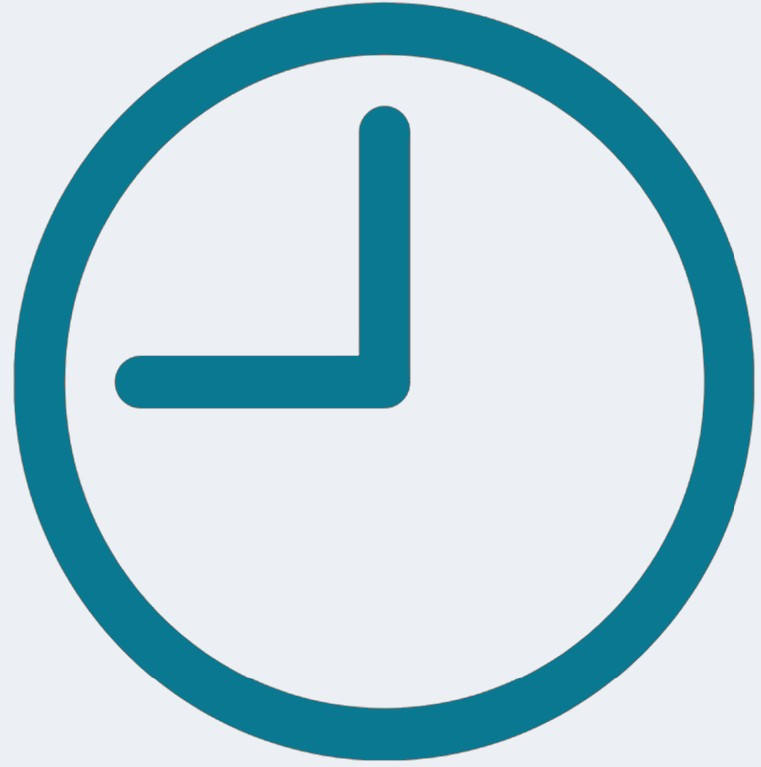
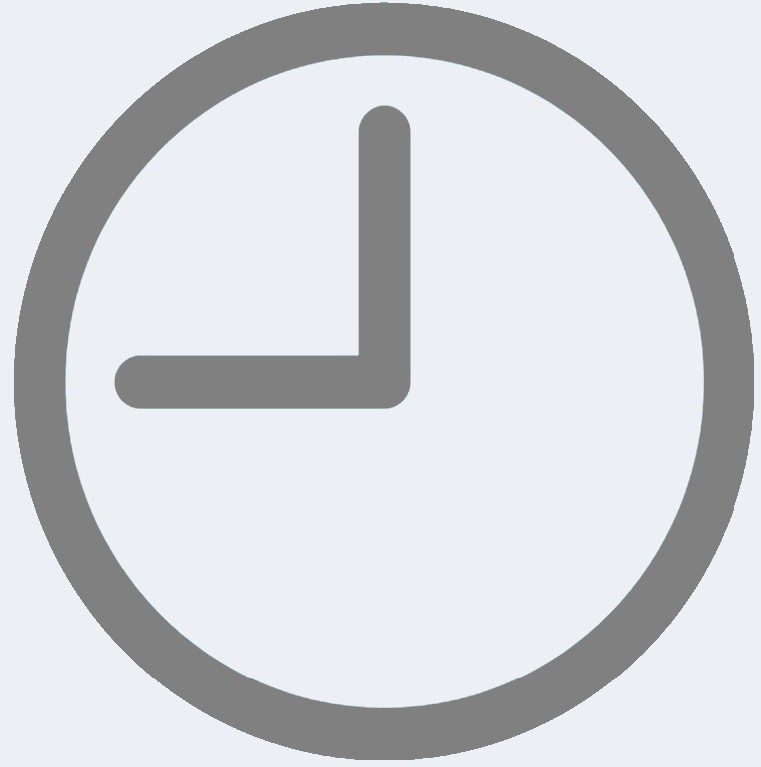
changement des images + design du detail de l'offre
En attente du compteur de visite.

Changed region(s): [[0.0, 0.0, 0.9974, 1.0], [0.1511, 0.1199, 0.544, 0.5398]]

diff --git a/front/myApp/www/templates/internOffer.html b/front/myApp/www/templates/internOffer.html
@@ -2,26 +2,44 @@
     <ion-content>
         <table class="tableOffer">
             <tr>
-                <td class="offerTitle">
+                <td colspan="2" class="offerTitle">
                     {{offer.label}}
-                </td>
-                <td class="logoCompany">
-                    <img src="/img/{{offer.currentApply.stateLabel}}.png" height="48" width="48" style="vertical-align: middle;"/>
                 </td>
             </tr>
             <tr>
-                <td class="description">
+                <td class="stateOffer">
+                    <img src="/img/{{offer.currentApply.stateLabel}}.png" height="48" width="48" style="vertical-align: middle;"/>
+                </td>
+                <td>
+                    <div class="apply">
+                        <button class="buttonApply" ng-click="addToCart()" type="submit">Ajouter</button>
+                    </div>
+                </td>
+            </tr>
+            <tr>    
+                <td>
+                    <div class="informations">
+                        <div class="uniqueInformation"><img src="/img/earning_offer.jpg" height="20" width="20"/>     <strong>{{offer.earning}}</strong></div>
+                        <div class="uniqueInformation"><img src="/img/arobase_offer.jpg" height="20" width="20"/>     {{offer.referent.name}}</div>                       
+                    </div>
+                </td>
+                <td>
+                    <div  class="informations">
+                        <div class="uniqueInformation"><img src="/img/location_offer.jpg" height="20" width="20"/>     {{offer.location}}</div>
+                        <div class="uniqueInformation"><img src="/img/clock_offer.jpg" height="20" width="20"/>     {{offer.duration}}</div>                        
+                    </div>
+                </td>
+            </tr>
+            <tr>
+                <td colspan="2" class="description">
                     {{offer.description}}
                 </td>
-                <td class="applyinformations">
-                    <div class="apply">
-                        <button class="buttonApply" ng-click="addToCart()" type="submit">Postuler</button>
-                    </div>
-                    <div class="informations">
-                        <img src="/img/earning_offer.jpg" height="11" width="11"/>     <strong>{{offer.earning}}</strong><br />
-                        <img src="/img/arobase_offer.jpg" height="11" width="11"/>     {{offer.referent.name}} <br />
-                        <img src="/img/location_offer.jpg" height="11" width="11"/>     {{offer.location}} <br />
-                        <img src="/img/clock_offer.jpg" height="11" width="11"/>     {{offer.duration}} <br />
+            </tr>
+            <tr>
+                <td colspan="2" class="counter">
+                    <div  class="informations">
+                        <img src="/img/counter.png" height="25" width="25" style="vertical-align: middle;"/>
+                        42 personnes consultent cette offre.
                     </div>
                 </td>
             </tr>

diff --git a/front/myApp/www/js/controller/internOfferController.js b/front/myApp/www/js/controller/internOfferController.js
@@ -1,15 +1,15 @@
 angular.module('app.controllers')
-.controller('InternOfferController', function($scope, $stateParams, $rootScope) {
+.controller('InternOfferController', function($http, $scope, $stateParams, $rootScope) {
     if (!$stateParams.offerId) throw new Error("No id passed to InternOfferController");
     // Récupération de l'id de l'offre en cours
     $scope.offerId = $stateParams.offerId;
     
-    // Déclaration de l'offre
+    // Mock for the offer
     $scope.offer = { 
         id: 1, 
-        label: 'Développeur',
+        label: 'Analyste programmeur junior',
         earning: '10K€',
-        description: 'description test 1',
+        description: 'Lorem ipsum dolor sit amet, consectetur adipiscing elit. Etiam dignissim dui ac metus suscipit, in commodo ligula tincidunt.\n\n Suspendisse rutrum molestie est, non tempor ligula interdum eu. Curabitur vulputate enim tellus, ut dapibus eros viverra sed. Vivamus consectetur, sem sed maximus placerat, nunc neque tincidunt erat,\n\n id volutpat tellus urna a nibh. Sed ac volutpat sem. Sed ac mi justo. Maecenas in dapibus quam. Integer scelerisque pulvinar leo, et luctus ligula ultrices vel. Vestibulum ultricies tempor pretium. Vestibulum lobortis sapien eget libero pellentesque efficitur. In efficitur vulputate lorem, sit amet semper purus vulputate non. Quisque convallis nisl sit amet sodales placerat.',
         location: 'Nulle part',
         duration: '1 jour',
         referent: {
@@ -30,22 +30,25 @@ angular.module('app.controllers')
         ]
     };
     
-    // Déclaration de l'offre
-    //TODO - Récupérer les attributs de l'offre en base à partir de l'offre de l'id
-    /*
-    $scope.offer = { 
-        id: $scope.offerId,
-        label: $scope.label,
-        description: $scope.description,
-        earning: $scope.earning,
-        referent: $scope.mail,
-        location: $scope.location,
-        duration: $scope.duration
-    };
-     */
+    // Get detailed information of the internship offer
+    /*$http({
+        method: 'GET',
+        url: $rootScope.serverURL+'/internoffer/'+$scope.offerId,
+        headers: {'Content-Type': 'application/json'}
+    }).then(
+        function(response){
+            if(response.data !== null){
+                //declar the offer
+                $scope.offer = response.data;
+            }
+        }, 
+        function(response){
+            console.log(response);
+        }
+    );
     
     // Add current offer to user's cart
     $scope.addToCart = function () {
         $rootScope.cartOffers.push($scope.offer);
-    };
+    };*/
 });

diff --git a/front/myApp/www/css/internOffer.css b/front/myApp/www/css/internOffer.css
@@ -11,39 +11,59 @@
     width: 100%;
 }
 
+.tableOffer tr {
+    width: 100%;
+}
+
 .tableOffer tr td {
-    padding: 5px;
+    padding: 8px 8px 8px 8px;
+    width: 50%;
 }
 /** Style du titre de l'offre **/
 .offerTitle {
-    font-size: 20px;
+    font-size: 25px;
     font-weight: bold;
     border: 0px !important;
+    margin-bottom: 10px;
+    margin-top: 10px;
 }
 
 /** Style de la div de description de l'offre' **/
 .description {
     text-align: justify ;
-    font-size: 13px;
+    font-size: 18px;
+    overflow: hidden;
+    word-wrap: break-word;
 }
 
-.applyinformations {
-    width: 125px;
-}
-.apply {
-    
-}
 .informations {
-    font-size: 13px;
-    padding-left: 3px;
-    border-left: 1px #0B7892 solid;
+    margin-top: 20px;
+    padding-left: 8px;
+    border-left: 3px #0B7892 solid;
+}
+.uniqueInformation {
+    font-size: 20px;
+}
+
+.uniqueInformation{
+    margin-bottom: 20px;
+}
+
+.counter {
+    font-size: 20px;
 }
 
 /**  **/
-.logoCompany{
+.stateOffer {
+    text-align: center;
     padding-top: 5px;
     width: 32px;
     height: 32px;
+}
+
+/**  **/
+.stateOffer img{
+    align-content: center;
 }
 
 

diff --git a/front/myApp/www/js/app.js b/front/myApp/www/js/app.js
@@ -21,23 +21,6 @@ angular.module('app', ['ionic', 'app.controllers'])
         templateUrl: 'templates/menu.html',
         controller: 'AppController'
     })
-    .state('app.compte  ', {
-        url: '/compte',
-        views: {
-            'mainContent': {
-                templateUrl: 'templates/compteStagiaire.html'
-            }
-        }
-    })
-    .state('app.compte', {
-        url: '/offers/:offerId',
-        views: {
-            'mainContent': {
-                templateUrl: 'templates/myAccount.html',
-                controller: 'myAccountController'
-            }
-        }
-    })
     .state('app.offers', {
         url: '/offers',
         views: {

diff --git a/front/myApp/www/js/controller/appController.js b/front/myApp/www/js/controller/appController.js
@@ -13,8 +13,8 @@ angular.module('app.controllers', [])
     
     // Form data for the login modal
     $scope.loginViewModel = {};
-    //$scope.serverURL = "http://163.172.188.205:3000";
-    $scope.serverURL = "http://127.0.0.1:3000";
+    $rootScope.serverURL = "http://163.172.188.205:3000";
+    //$scope.serverURL = "http://127.0.0.1:3000";
 
     // Form data for the login modal
     $scope.subscribeViewModel = {};
